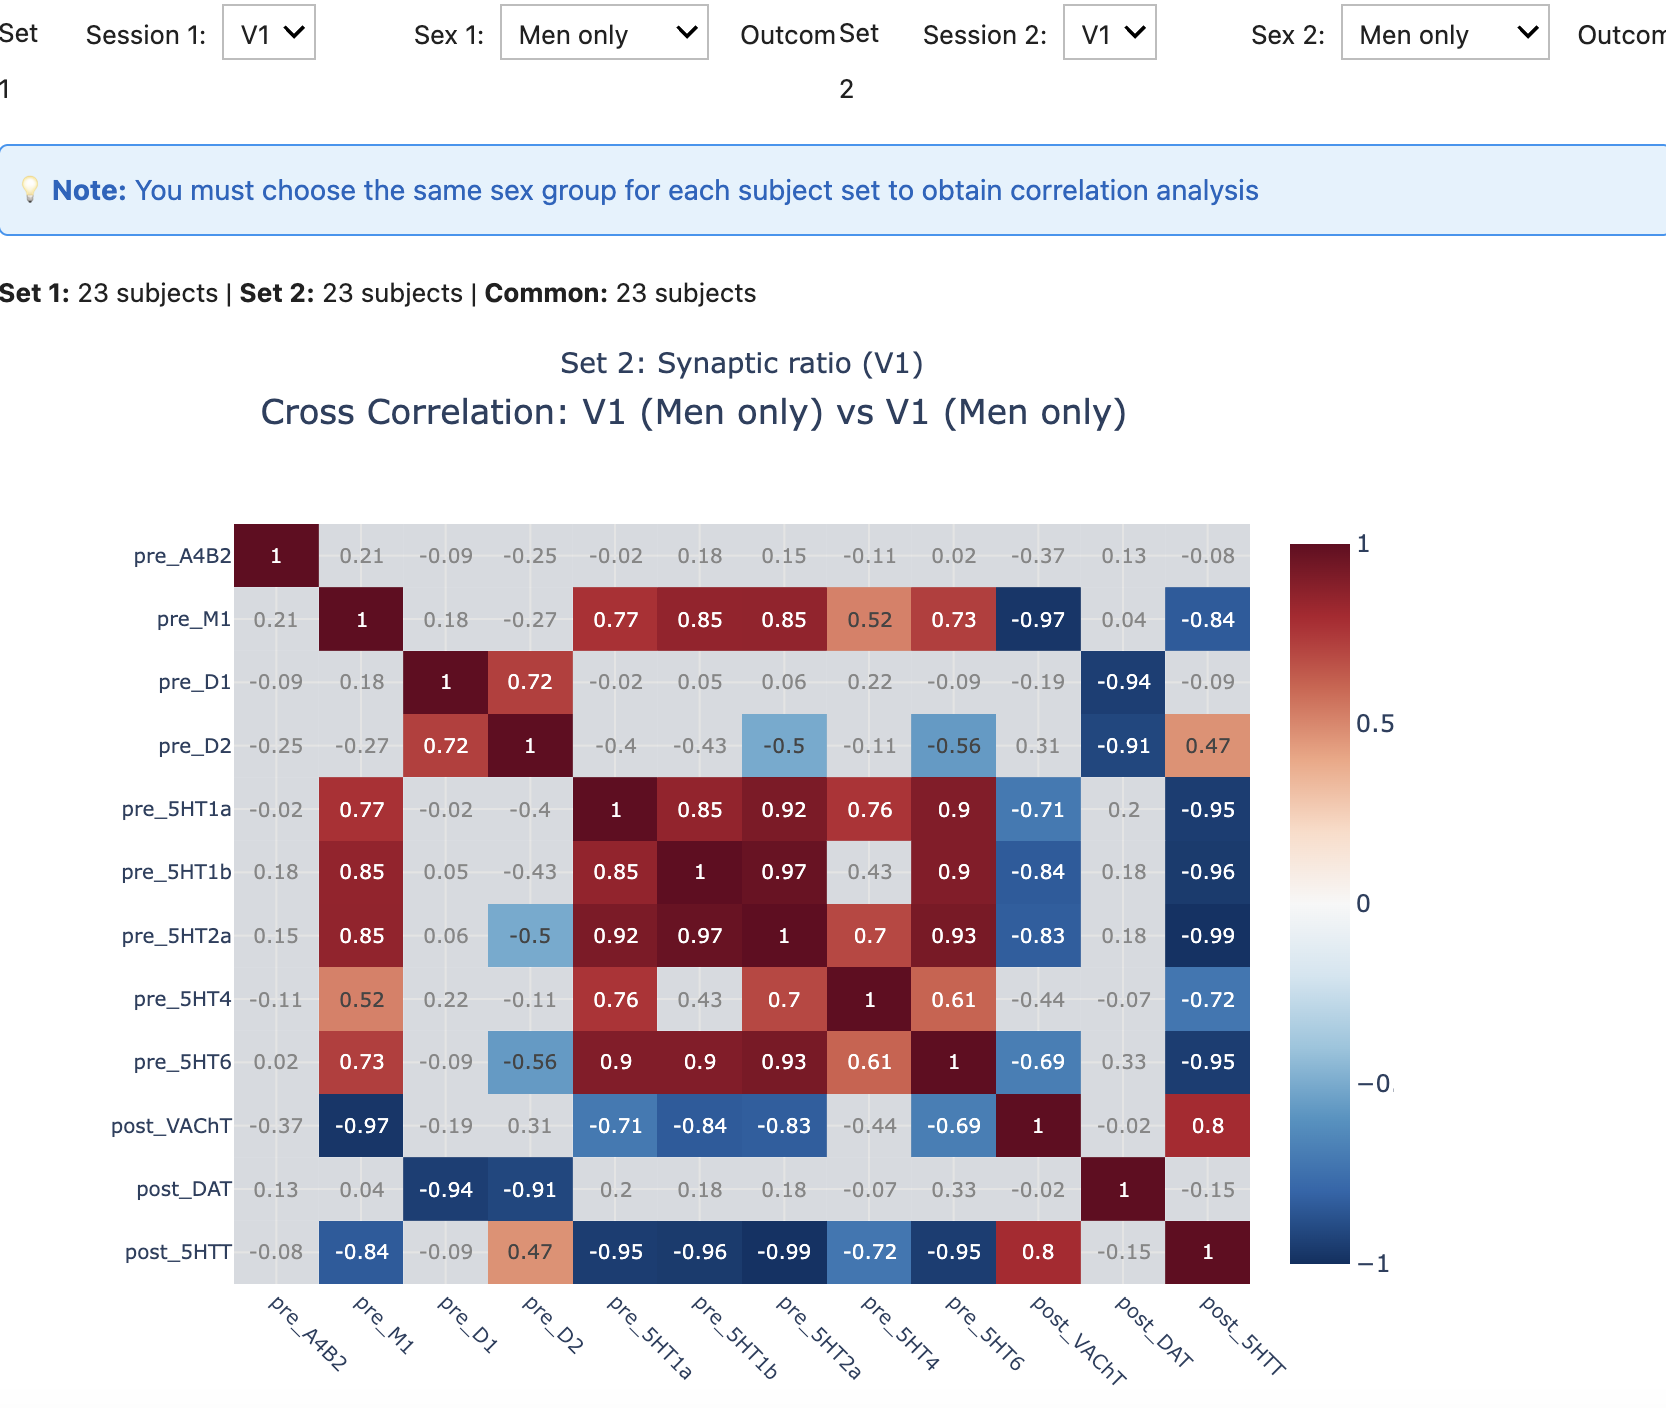
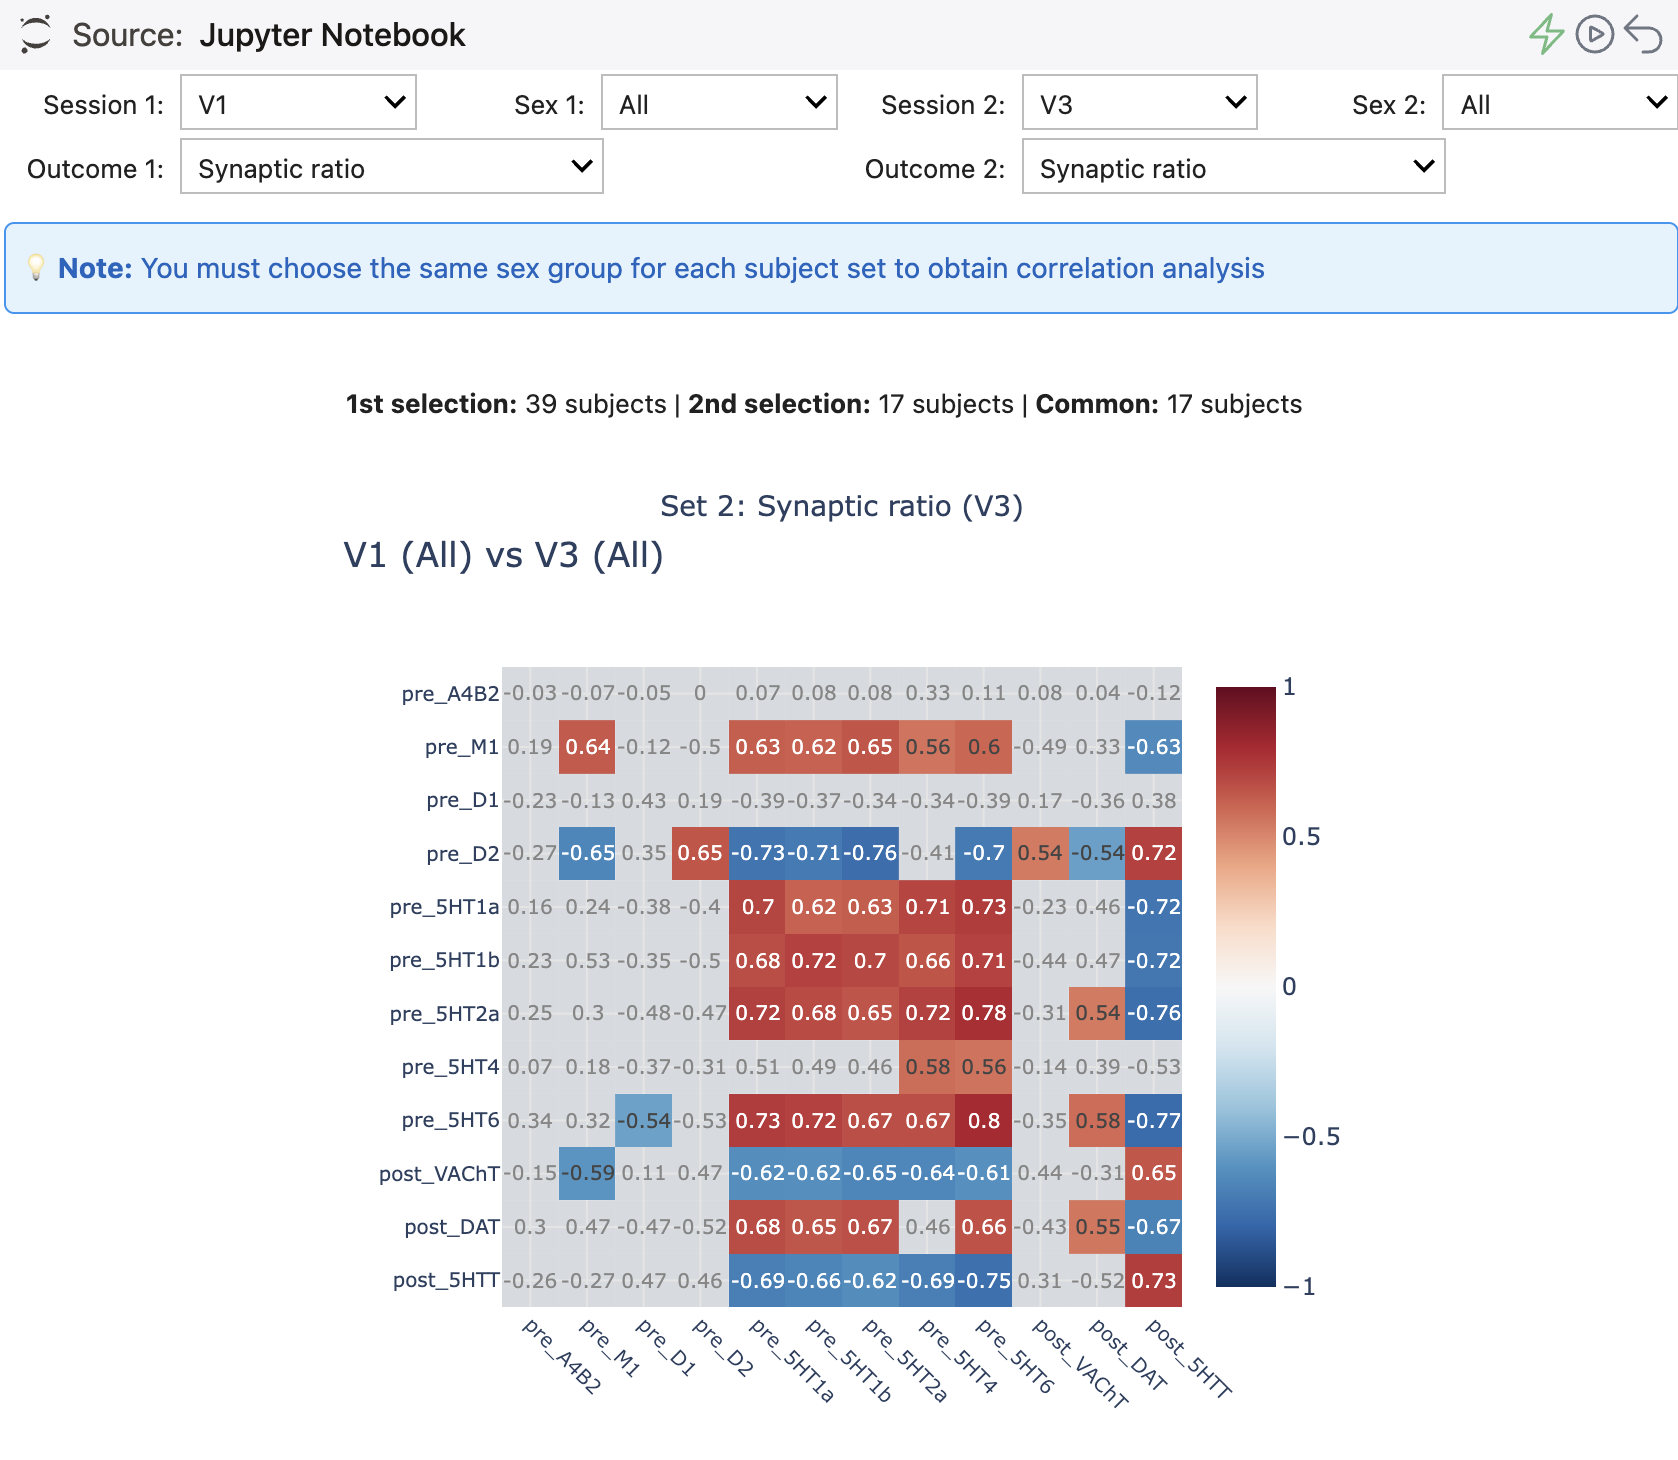
changed static visualization fig 3 & 5

diff --git a/content/Dash_client.py b/content/Dash_client.py
@@ -973,7 +973,7 @@ class DashNeuroTmapClient:
         
         # Widgets for Set 1
         session1 = widgets.Dropdown(options=['V1', 'V2', 'V3'], value='V1', description='Session 1:')
-        sex1 = widgets.Dropdown(options=['All', 'Men only', 'Women only'], value='Men only', description='Sex 1:')
+        sex1 = widgets.Dropdown(options=['All', 'Men only', 'Women only'], value='All', description='Sex 1:')
         outcome1 = widgets.Dropdown(
             options=['Synaptic ratio', 'Neurotransmitter (Loc)', 
                     'Neurotransmitter (Tract)', 'Clinical Outcomes'],
@@ -982,8 +982,8 @@ class DashNeuroTmapClient:
         )
         
         # Widgets for Set 2
-        session2 = widgets.Dropdown(options=['V1', 'V2', 'V3'], value='V1', description='Session 2:')
-        sex2 = widgets.Dropdown(options=['All', 'Men only', 'Women only'], value='Men only', description='Sex 2:')
+        session2 = widgets.Dropdown(options=['V1', 'V2', 'V3'], value='V3', description='Session 2:')
+        sex2 = widgets.Dropdown(options=['All', 'Men only', 'Women only'], value='All', description='Sex 2:')
         
         outcome2 = widgets.Dropdown(
             options=['Synaptic ratio', 'Neurotransmitter (Loc)', 
